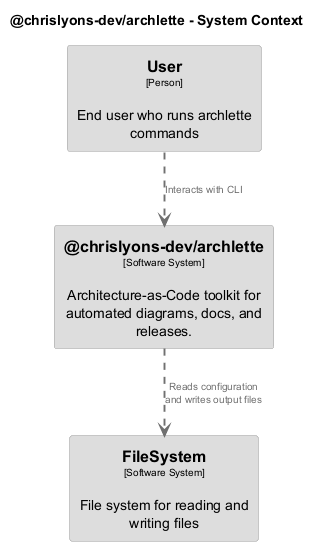
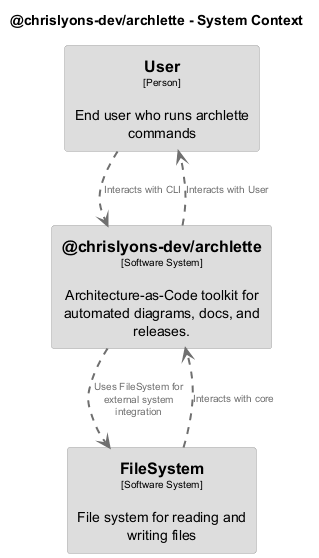
fix: clean up actor relationship mapping
The actor management was getting a bit messy, so I've standardized
the way we define and reference actors across the codebase. This should
make it clearer which parts of the system interact with which actors.
Actor relationships are now consistently documented in the JSDoc comments.
Actor relationships are always bidirectional for now.

Written-by: Chris Lyons

diff --git a/src/extractors/builtin/basic-node/to-ir-mapper.ts b/src/extractors/builtin/basic-node/to-ir-mapper.ts
@@ -61,79 +61,54 @@ export function mapToIR(
         });
       }
 
-      // If a Person actor is defined in the same file as a component, infer actor → component
-      // Semantically: Person actors (users) interact with the component they're documented with
-      // System actors (external systems) do NOT get this inference - they use @usedBy tags
-      if (componentId && actor.type === 'Person') {
+      // If an actor is declared in a component file, automatically create bidirectional relationship
+      // Actor → Component: The actor interacts with/uses the component
+      // Component → Actor: The component depends on/uses the actor
+      // This applies to both Person (users) and System (external systems) actors
+      if (componentId) {
         const actorData = actorsMap.get(actor.id);
+
+        // Create actor → component relationship (stored in actor.targets)
         if (actorData && !actorData.targets.includes(componentId)) {
           actorData.targets.push(componentId);
+        }
+
+        // Create component → actor relationship (stored in componentRelationships)
+        const relationshipExists = componentRelationships.some(
+          (rel) => rel.source === componentId && rel.destination === actor.id,
+        );
+        if (!relationshipExists) {
+          const description =
+            actor.type === 'Person'
+              ? `Interacts with ${actor.name}`
+              : `Uses ${actor.name} for external system integration`;
+          componentRelationships.push({
+            source: componentId,
+            destination: actor.id,
+            description,
+            tags: [],
+          });
         }
       }
     }
 
-    // Process relationships from this file
-    // If the file has relationships, they could be:
-    // 1. Component → Component (both source and target are components)
-    // 2. Actor → Component (source is actor, target is component)
-    // 3. Component → Actor (source is component, target is actor)
-
+    // Process @uses relationships from this file
+    // @uses tags create component → component relationships
+    // Note: @usedBy tags are deprecated - actor relationships are now automatic
     for (const rel of file.relationships) {
-      // Convert target name to ID (lowercase, etc.)
-      const targetId = convertNameToId(rel.target);
+      // Only process @uses (outbound) relationships
+      // @usedBy (inbound) relationships are ignored - use @uses in the source component instead
+      if (rel.direction === 'outbound' && componentId) {
+        // Convert target name to ID (lowercase, etc.)
+        const targetId = convertNameToId(rel.target);
 
-      if (rel.direction === 'outbound') {
-        // @uses: source uses target
-
-        // Determine the source: component or actor
-        // System actors: don't create outbound relationships (they're external, not active agents)
-        // Person actors: handled by inference above (Person → component)
-        // Components: create outbound relationships
-
-        if (componentId) {
-          // Relationship from component to target
-          componentRelationships.push({
-            source: componentId,
-            destination: targetId,
-            description: rel.description || 'Uses',
-            tags: [],
-          });
-        } else if (file.actors.length > 0) {
-          // File has only actors (no component)
-          // Create actor → target relationships
-          for (const actor of file.actors) {
-            const actorData = actorsMap.get(actor.id);
-            if (actorData && !actorData.targets.includes(targetId)) {
-              actorData.targets.push(targetId);
-            }
-          }
-        }
-      } else {
-        // @usedBy: target uses source (reverse direction)
-
-        // Determine the destination: actor (if System) or component
-        let destination: string | undefined;
-
-        // If file defines System actors (external systems), @usedBy points to the actor
-        const systemActors = file.actors.filter((a) => a.type === 'System');
-        if (systemActors.length > 0) {
-          destination = systemActors[0].id;
-        } else if (componentId) {
-          // Otherwise, points to the component
-          destination = componentId;
-        } else if (file.actors.length > 0) {
-          // Fallback: any actor
-          destination = file.actors[0].id;
-        }
-
-        if (destination) {
-          componentRelationships.push({
-            source: targetId,
-            destination,
-            description: rel.description || 'Uses',
-            tags: [],
-          });
-        }
+        // Create component → component relationship
+        componentRelationships.push({
+          source: componentId,
+          destination: targetId,
+          description: rel.description || 'Uses',
+          tags: [],
+        });
       }
     }
 
@@ -181,6 +156,9 @@ export function mapToIR(
     }
   }
 
+  // Deduplicate component relationships (same source+destination)
+  const uniqueComponentRelationships = deduplicateRelationships(componentRelationships);
+
   return {
     version: IR_VERSION,
     system,
@@ -190,9 +168,24 @@ export function mapToIR(
     code: codeItems,
     deployments: [],
     containerRelationships: [],
-    componentRelationships,
+    componentRelationships: uniqueComponentRelationships,
     codeRelationships: relationships,
   };
+}
+
+/**
+ * Deduplicate relationships by source+destination combination
+ * First occurrence wins - preserves description from first relationship
+ */
+function deduplicateRelationships(relationships: Relationship[]): Relationship[] {
+  const seen = new Map<string, Relationship>();
+  for (const rel of relationships) {
+    const key = `${rel.source}:${rel.destination}`;
+    if (!seen.has(key)) {
+      seen.set(key, rel);
+    }
+  }
+  return Array.from(seen.values());
 }
 
 /**

diff --git a/src/1-extract/aggregator.ts b/src/1-extract/aggregator.ts
@@ -119,7 +119,7 @@ function deduplicateByName<T extends { name: string }>(items: T[]): T[] {
 }
 
 /**
- * Deduplicate relationships by source+destination+stereotype combination
+ * Deduplicate relationships by source+destination combination
  *
  * @param relationships - Array of relationships to deduplicate
  * @returns Array with duplicate relationships removed
@@ -128,12 +128,13 @@ function deduplicateByName<T extends { name: string }>(items: T[]): T[] {
  * Two relationships are considered duplicates if they have the same:
  * - source ID
  * - destination ID
- * - stereotype (or both undefined)
+ * The first occurrence is preserved, including its description.
+ * Subsequent duplicates are ignored regardless of description or stereotype differences.
  */
 function deduplicateRelationships(relationships: Relationship[]): Relationship[] {
   const seen = new Map<string, Relationship>();
   for (const rel of relationships) {
-    const key = `${rel.source}:${rel.destination}:${rel.stereotype || ''}`;
+    const key = `${rel.source}:${rel.destination}`;
     if (!seen.has(key)) {
       seen.set(key, rel);
     }

diff --git a/src/generators/builtin/structurizr.ts b/src/generators/builtin/structurizr.ts
@@ -471,7 +471,7 @@ function generateContainer(
     }
 
     // Component relationships for this container
-    // Note: Exclude relationships to actors - those are rendered outside the system block
+    // Note: Exclude relationships to/from actors - those are rendered outside the system block
     const containerCompIds = new Set([
       ...containerComponents.map((c) => c.id),
       ...containerCode.map((c) => c.id),
@@ -482,12 +482,14 @@ function generateContainer(
       (rel) =>
         containerCompIds.has(rel.source) &&
         containerCompIds.has(rel.destination) &&
+        !actorIds.has(rel.source) && // Exclude actor → component
         !actorIds.has(rel.destination), // Exclude component → actor
     );
     const relevantCodeRels = codeRels.filter(
       (rel) =>
         containerCompIds.has(rel.source) &&
         containerCompIds.has(rel.destination) &&
+        !actorIds.has(rel.source) && // Exclude actor → code
         !actorIds.has(rel.destination), // Exclude code → actor
     );
 

diff --git a/src/core/path-resolver.ts b/src/core/path-resolver.ts
@@ -5,10 +5,6 @@
  * Handles resolution of relative paths, tilde expansion, and file I/O operations.
  *
  * @actor FileSystem {System} File system for reading and writing files
- * @usedBy CLI For reading configuration files and writing output
- * @usedBy extractors For reading source code files
- * @usedBy generators For writing DSL files
- * @usedBy renderers For writing diagram files
  */
 
 import { fileURLToPath, pathToFileURL } from 'node:url';
@@ -107,7 +103,6 @@ export function toFileUrl(p: string): string {
  *
  * @param filename - Absolute path to the file
  * @param content - Content to write
- * @uses FileSystem {System} Writes files to disk
  */
 export function writeFile(filename: string, content: string = '') {
   const dirname = path.dirname(filename);

diff --git a/src/cli.ts b/src/cli.ts
@@ -39,7 +39,7 @@
  * @uses validators Validates and enriches intermediate representation
  * @uses generators Transforms IR into DSL formats
  * @uses renderers Converts DSL to visual diagrams
- * @uses FileSystem {System} Reads configuration and writes output files
+ * @uses core Provides shared utilities, types, and module loading
  *
  * @see {@link module:core/types-aac} for configuration schema
  */

diff --git a/src/2-validate/index.ts b/src/2-validate/index.ts
@@ -18,6 +18,8 @@
  * The validated IR is passed to subsequent pipeline stages and is
  * guaranteed to be valid according to all configured validators.
  *
+ * @uses core Provides IR types, validation schemas, and module loading
+ *
  * @see {@link module:core/types-ir} for ArchletteIR schema
  * @see {@link module:core/stage-interfaces.ArchletteValidator} for validator interface
  */

diff --git a/src/3-generate/index.ts b/src/3-generate/index.ts
@@ -16,6 +16,8 @@
  * Generators produce string output representing architecture diagrams
  * or documentation in specific DSL formats.
  *
+ * @uses core Provides IR types, path resolution, and module loading
+ *
  * @see {@link module:core/types-ir} for ArchletteIR schema
  * @see {@link module:core/stage-interfaces.ArchletteGenerator} for generator interface
  */

diff --git a/src/1-extract/index.ts b/src/1-extract/index.ts
@@ -17,6 +17,8 @@
  * All valid IR results are stored in `ctx.state.extractorResults` for
  * use by subsequent pipeline stages.
  *
+ * @uses core Provides IR types, validation schemas, and module loading
+ *
  * @see {@link module:core/types-ir} for ArchletteIR schema
  * @see {@link module:core/stage-interfaces.ArchletteExtractor} for extractor interface
  */

diff --git a/src/4-render/index.ts b/src/4-render/index.ts
@@ -17,6 +17,8 @@
  * - structurizr-export: DSL → PlantUML/Mermaid
  * - plantuml-render: PlantUML → PNG images
  *
+ * @uses core Provides types, module loading, and tool management
+ *
  * @see {@link module:generators} for generation stage
  * @see {@link module:core/tool-manager} for tool management
  */

diff --git a/src/5-docs/index.ts b/src/5-docs/index.ts
@@ -4,6 +4,8 @@
  * @module docs
  * @description
  * Generates documentation from diagrams and IR.
+ *
+ * @uses core Provides types and path resolution
  */
 
 import type { PipelineContext } from '../core/types.js';
